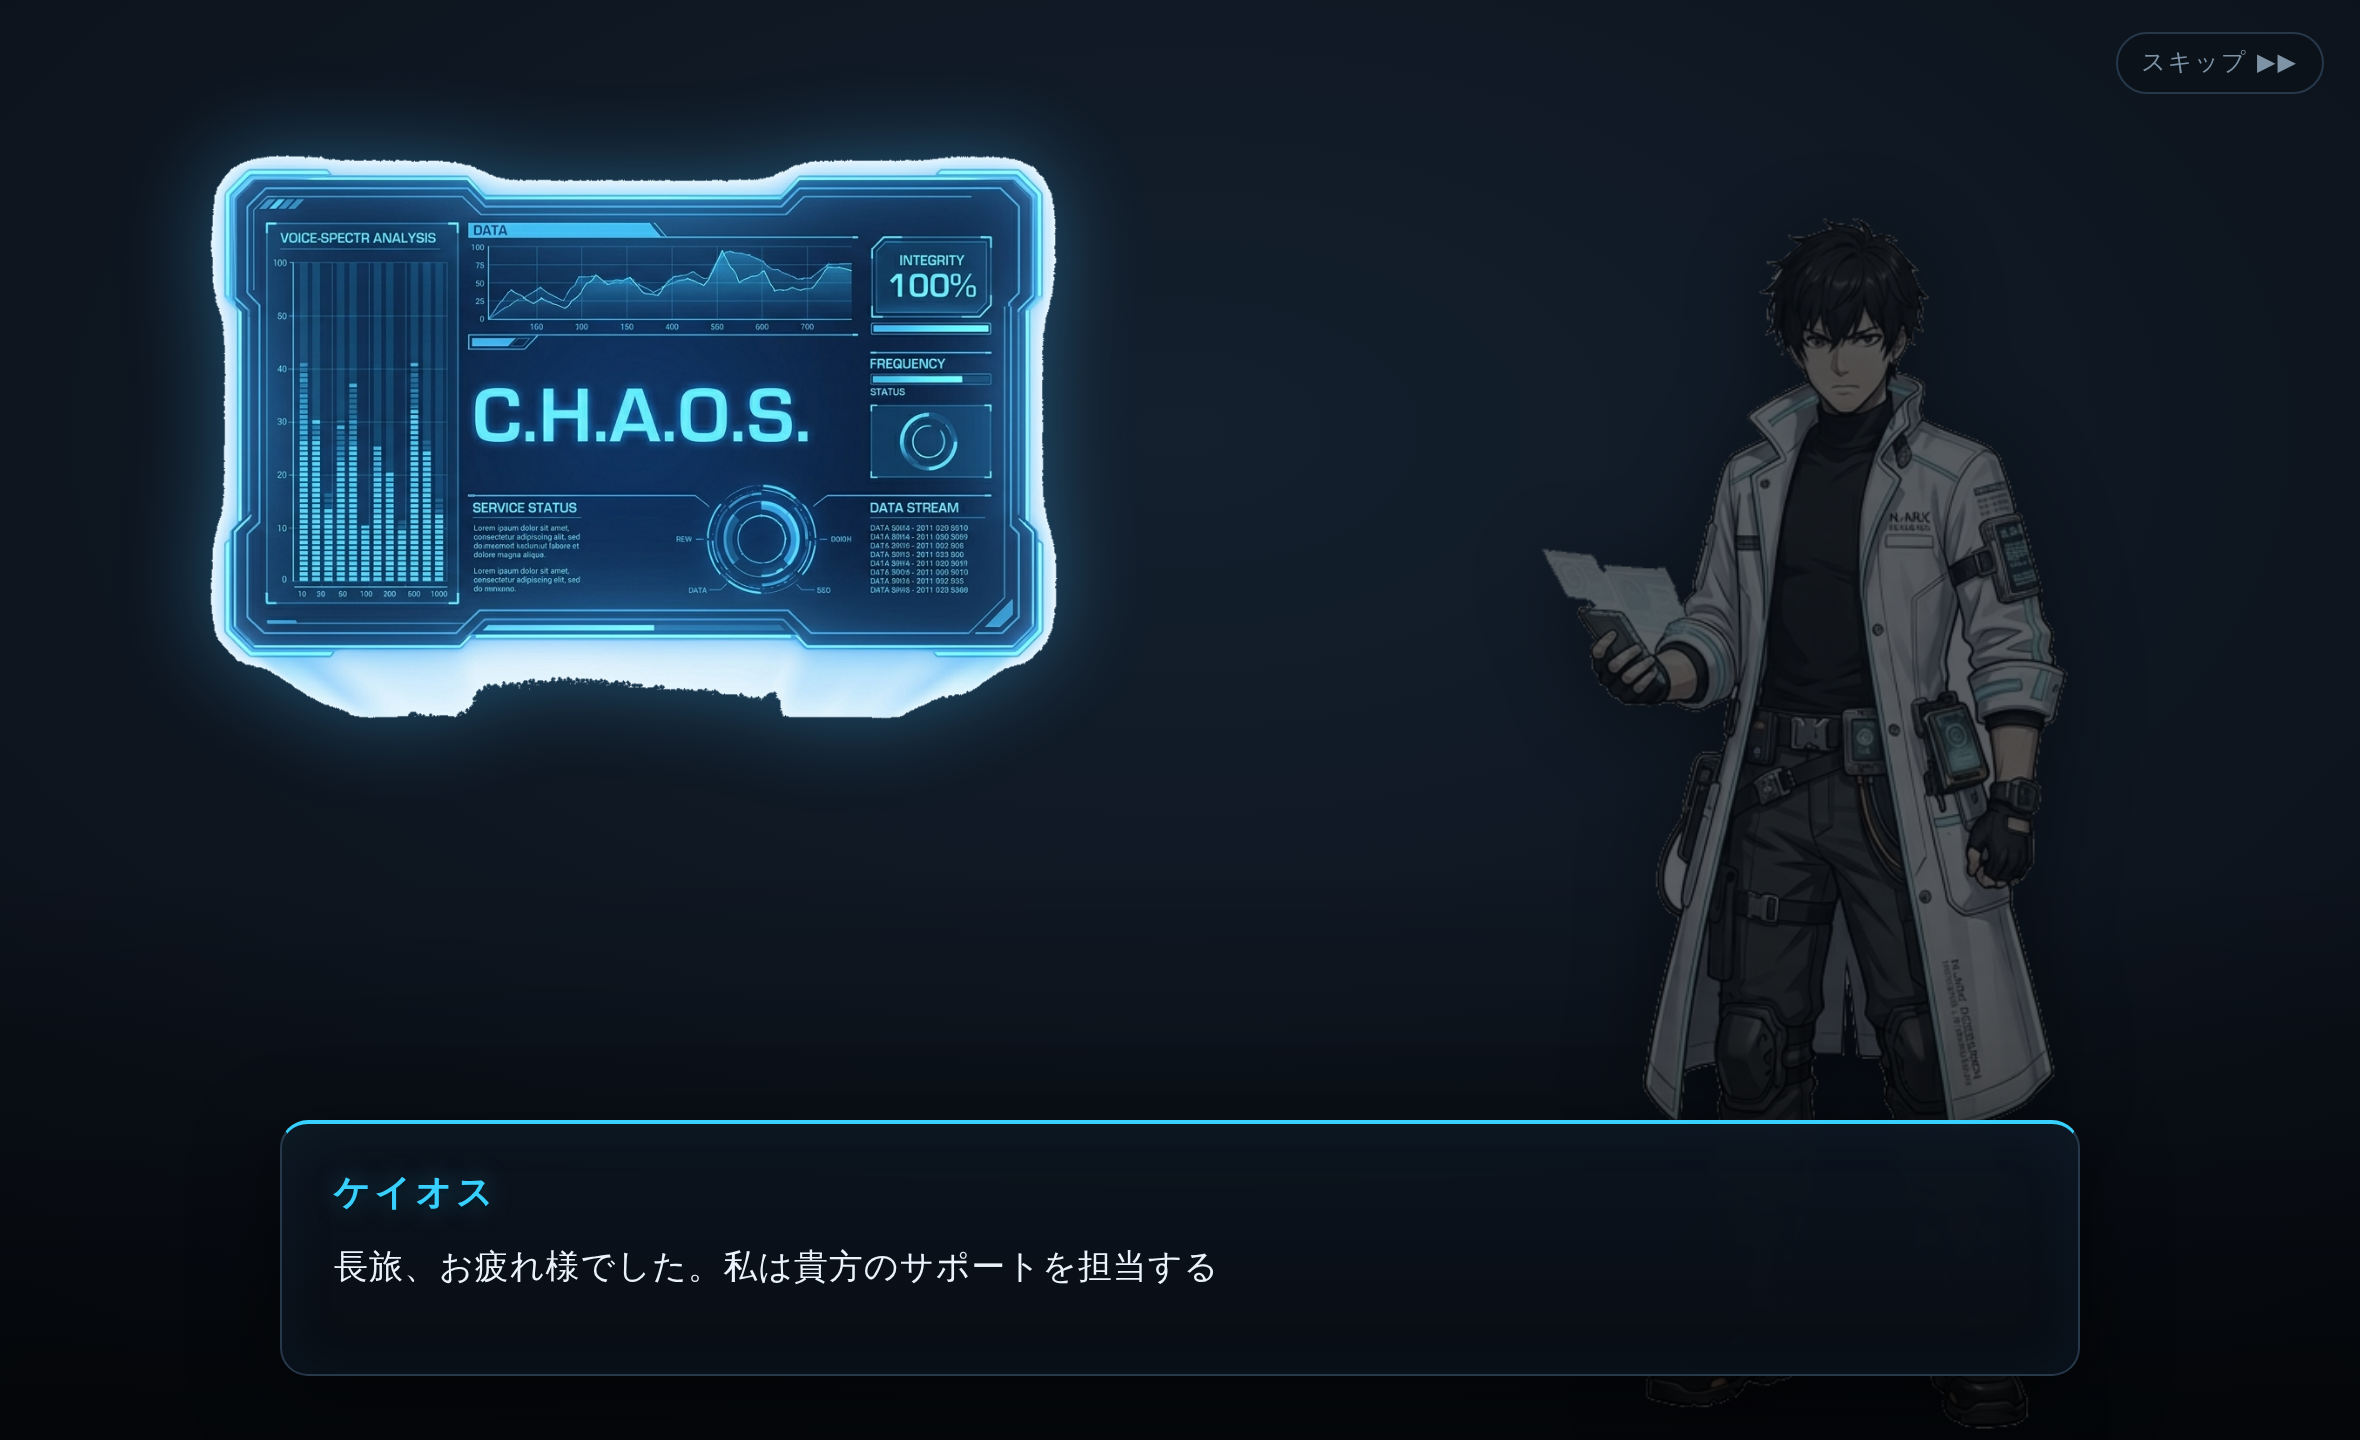
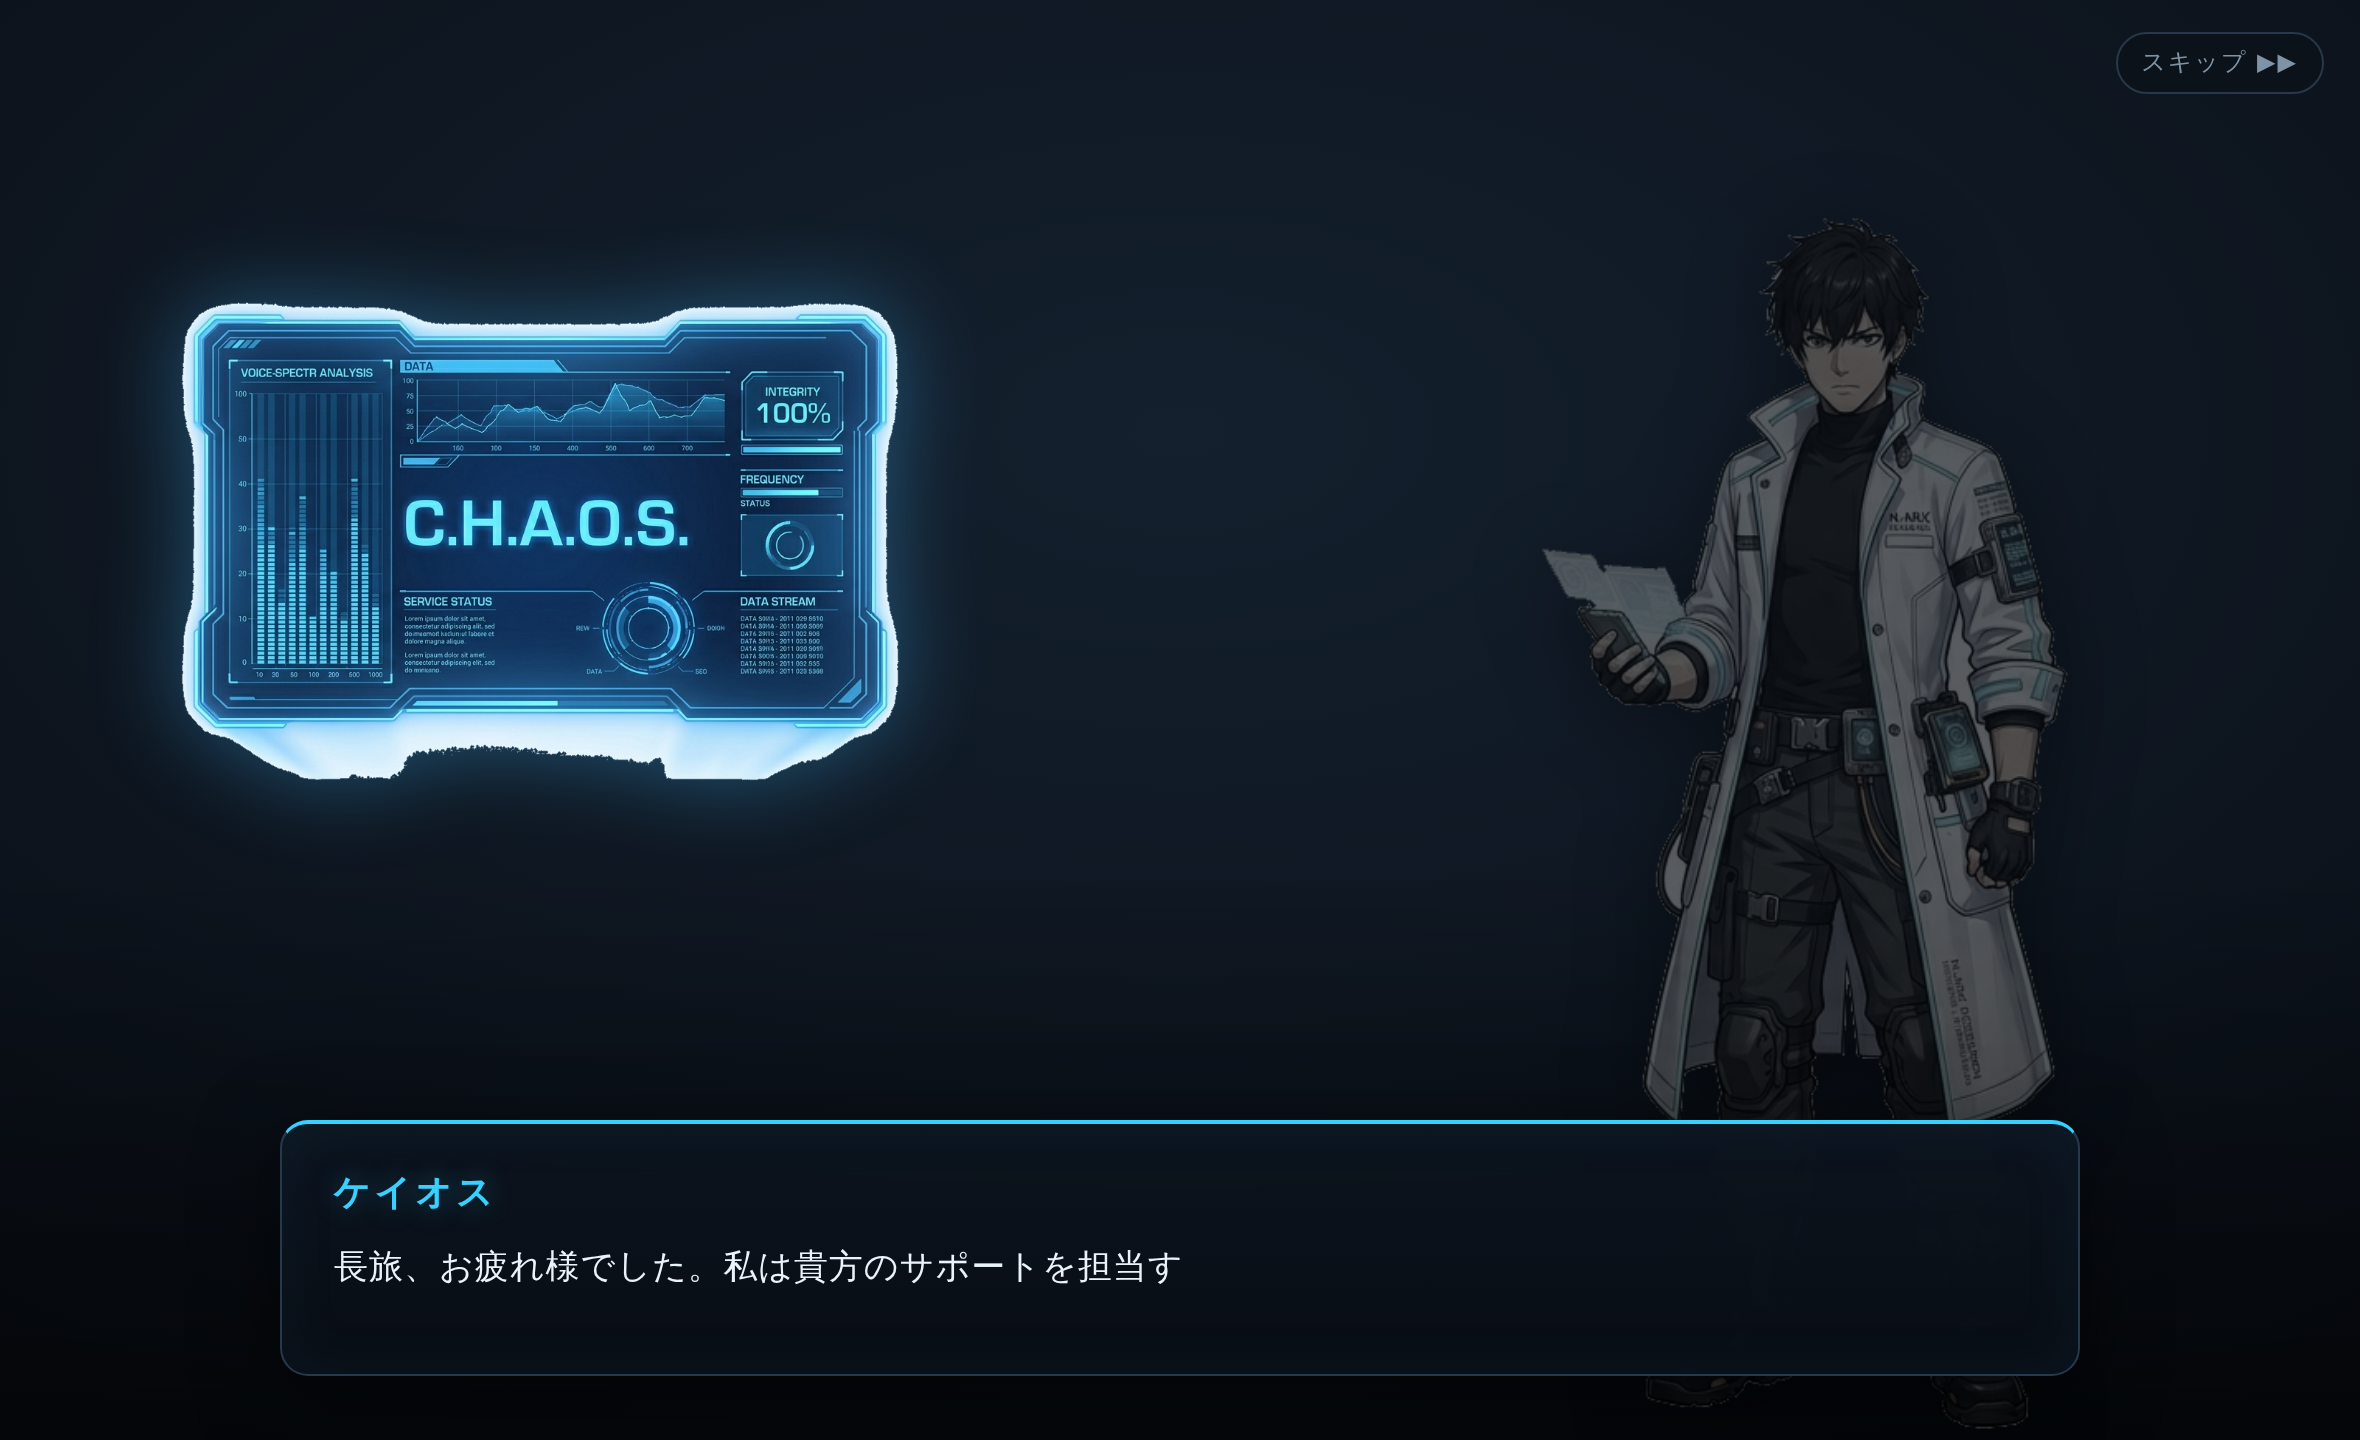
Tune ケイオス HUD portrait: smaller and lower
Adjust .vn-portrait.hud — top 6%->17%, height 60%->46%, width 52%->44%,
max-width 660->540px — so the console panel is less oversized and sits lower,
better balanced with the 管理者 figure while staying clear of the dialogue box.

Claude-Session: https://claude.ai/code/session_01BHtK7EAC9nLuAJyf1xSjXa

Changed region(s): [[0.0619, 0.0938, 0.464, 0.5625]]

diff --git a/game/css/style.css b/game/css/style.css
@@ -305,7 +305,7 @@ body{
   image-rendering:auto; filter:drop-shadow(0 6px 22px rgba(0,0,0,.6))}
 .vn-portrait.left img{transform:scaleX(1)}
 /* HUD型立ち絵（AIコンソール等）：上寄せで台詞ボックスに被らない浮遊パネル */
-.vn-portrait.hud{top:6%; bottom:auto; height:60%; width:52%; max-width:660px; align-items:flex-start}
+.vn-portrait.hud{top:17%; bottom:auto; height:46%; width:44%; max-width:540px; align-items:flex-start}
 .vn-portrait.hud img{filter:drop-shadow(0 0 22px rgba(55,160,220,.45))}
 /* 立ち絵プレースホルダ（画像未支給時） */
 .vn-ph{display:flex; flex-direction:column; align-items:center; justify-content:center; gap:14px;
